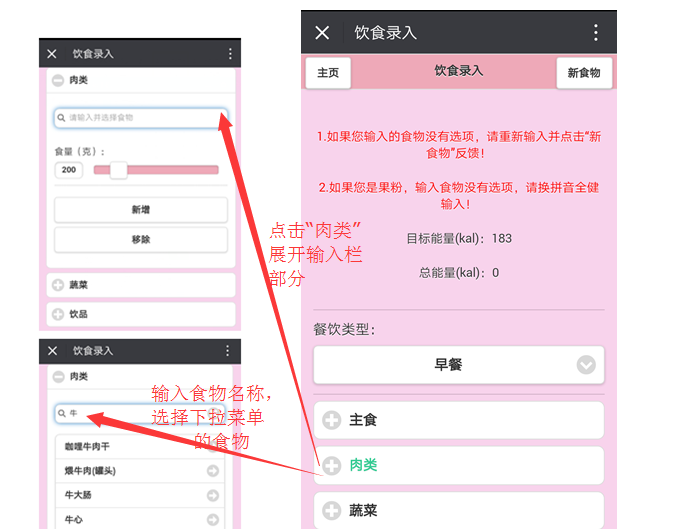
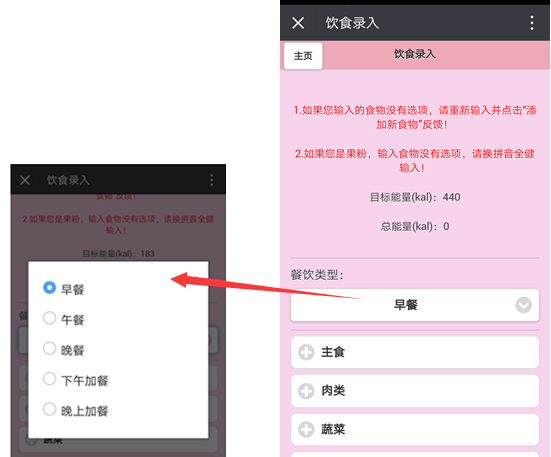
再按一次退出    2016.11.25
再按一次退出

diff --git a/diethealth/WebRoot/js/toast.js b/diethealth/WebRoot/js/toast.js
@@ -1,0 +1,38 @@
+
+/**
+	 * 模仿android里面的Toast效果，主要是用于在不打断程序正常执行的情况下显示提示数据
+	 * @param config
+	 * @return
+	 */
+	var Toast = function(config){
+		this.context = config.context==null?$('body'):config.context;//上下文
+		this.message = config.message;//显示内容
+		this.time = config.time==null?3000:config.time;//持续时间
+		this.left = config.left;//距容器左边的距离
+		this.top = config.top;//距容器上方的距离
+		this.init();
+	}
+	var msgEntity;
+	Toast.prototype = {
+		//初始化显示的位置内容等
+		init : function(){
+			$("#toastMessage").remove();
+			//设置消息体
+			var msgDIV = new Array();
+			msgDIV.push('<div id="toastMessage" style="border-radius:18px;-moz-opacity:0.6;opacity:0.6;">');
+			msgDIV.push('<span>'+this.message+'</span>');
+			msgDIV.push('</div>');
+			msgEntity = $(msgDIV.join('')).appendTo(this.context);
+			//设置消息样式
+			var left = this.left == null ? this.context.width()/2-msgEntity.find('span').width()/2 : this.left;
+			var top = this.top == null ? '20px' : this.top;
+			msgEntity.css({position:'absolute',bottom:top,'z-index':'99',left:left,'background-color':'black',color:'white','font-size':'15px',padding:'10px',margin:'10px'});
+			msgEntity.hide();
+		},
+		//显示动画
+		show :function(){
+			msgEntity.fadeIn(this.time/2);
+			msgEntity.fadeOut(this.time/2);
+		}
+			
+	}

diff --git a/diethealth/src/com/common/util/WeiXinServlet.java b/diethealth/src/com/common/util/WeiXinServlet.java
@@ -49,7 +49,8 @@ public class WeiXinServlet extends HttpServlet{
 	            			+"]]></FromUserName><CreateTime>"+new Date().getTime()+"</CreateTime><MsgType><![CDATA[text]]></MsgType><Content>"
 	            			+ "<![CDATA[        亲，终于等到你 /::B                     欢迎加入孕糖宝！/:rose                  请先选择绑定您的身份（身份不可变更，医生需审核通过）。"
 	            			+ " 如果您是准麻麻会有医生为您提供及时的饮食指导认真及时地填写每天的饮食、运动及血糖情况将有助于医生给出更合理的建议。"
-	            			+ "                           主页中'加餐偏好'中选择习惯的加餐种类（以默认三餐，选择加餐类型），宝宝为您量身计算每餐目标能量]]></Content></xml>";
+	            			+ "                           主页中'加餐偏好'中选择习惯的加餐种类（以默认三餐，选择加餐类型），宝宝为您量身计算每餐目标能量。"
+	            			+ "                                                        您有任何建议请在下方输入栏给孕糖宝留言哦，欢迎大家多提宝贵意见。]]></Content></xml>";
 	            	userService.saveOpenId(fromUserName);
 	            }else if("unsubscribe".equals(event)){
 	            	userService.deleteOpenId(fromUserName);

diff --git a/diethealth/src/com/diet/controller/DietController.java b/diethealth/src/com/diet/controller/DietController.java
@@ -228,6 +228,10 @@ public class DietController {
 	@RequestMapping("diet_info")
 	public String getDietInfo(HttpServletRequest request, Model model){
 		Map<String, Object> param = FormDataCollectUtil.getInstance().getFormData(request);
+		String pId = (String)request.getSession().getAttribute("pId");
+		//String pId = "o-1WTwtX8PIDMOWg66DjTmWw4o4I";
+		model.addAttribute("targetEnergy",dietService.getTargetEnergy(pId));
+		model.addAttribute("dietEnergy", dietService.showDietEnergy(param));
 		model.addAttribute("dietList", dietService.showDietInfo(param));
 		model.addAttribute("advice", dietService.showAdviceInfo(param));
 		return "diet/diet_info";
